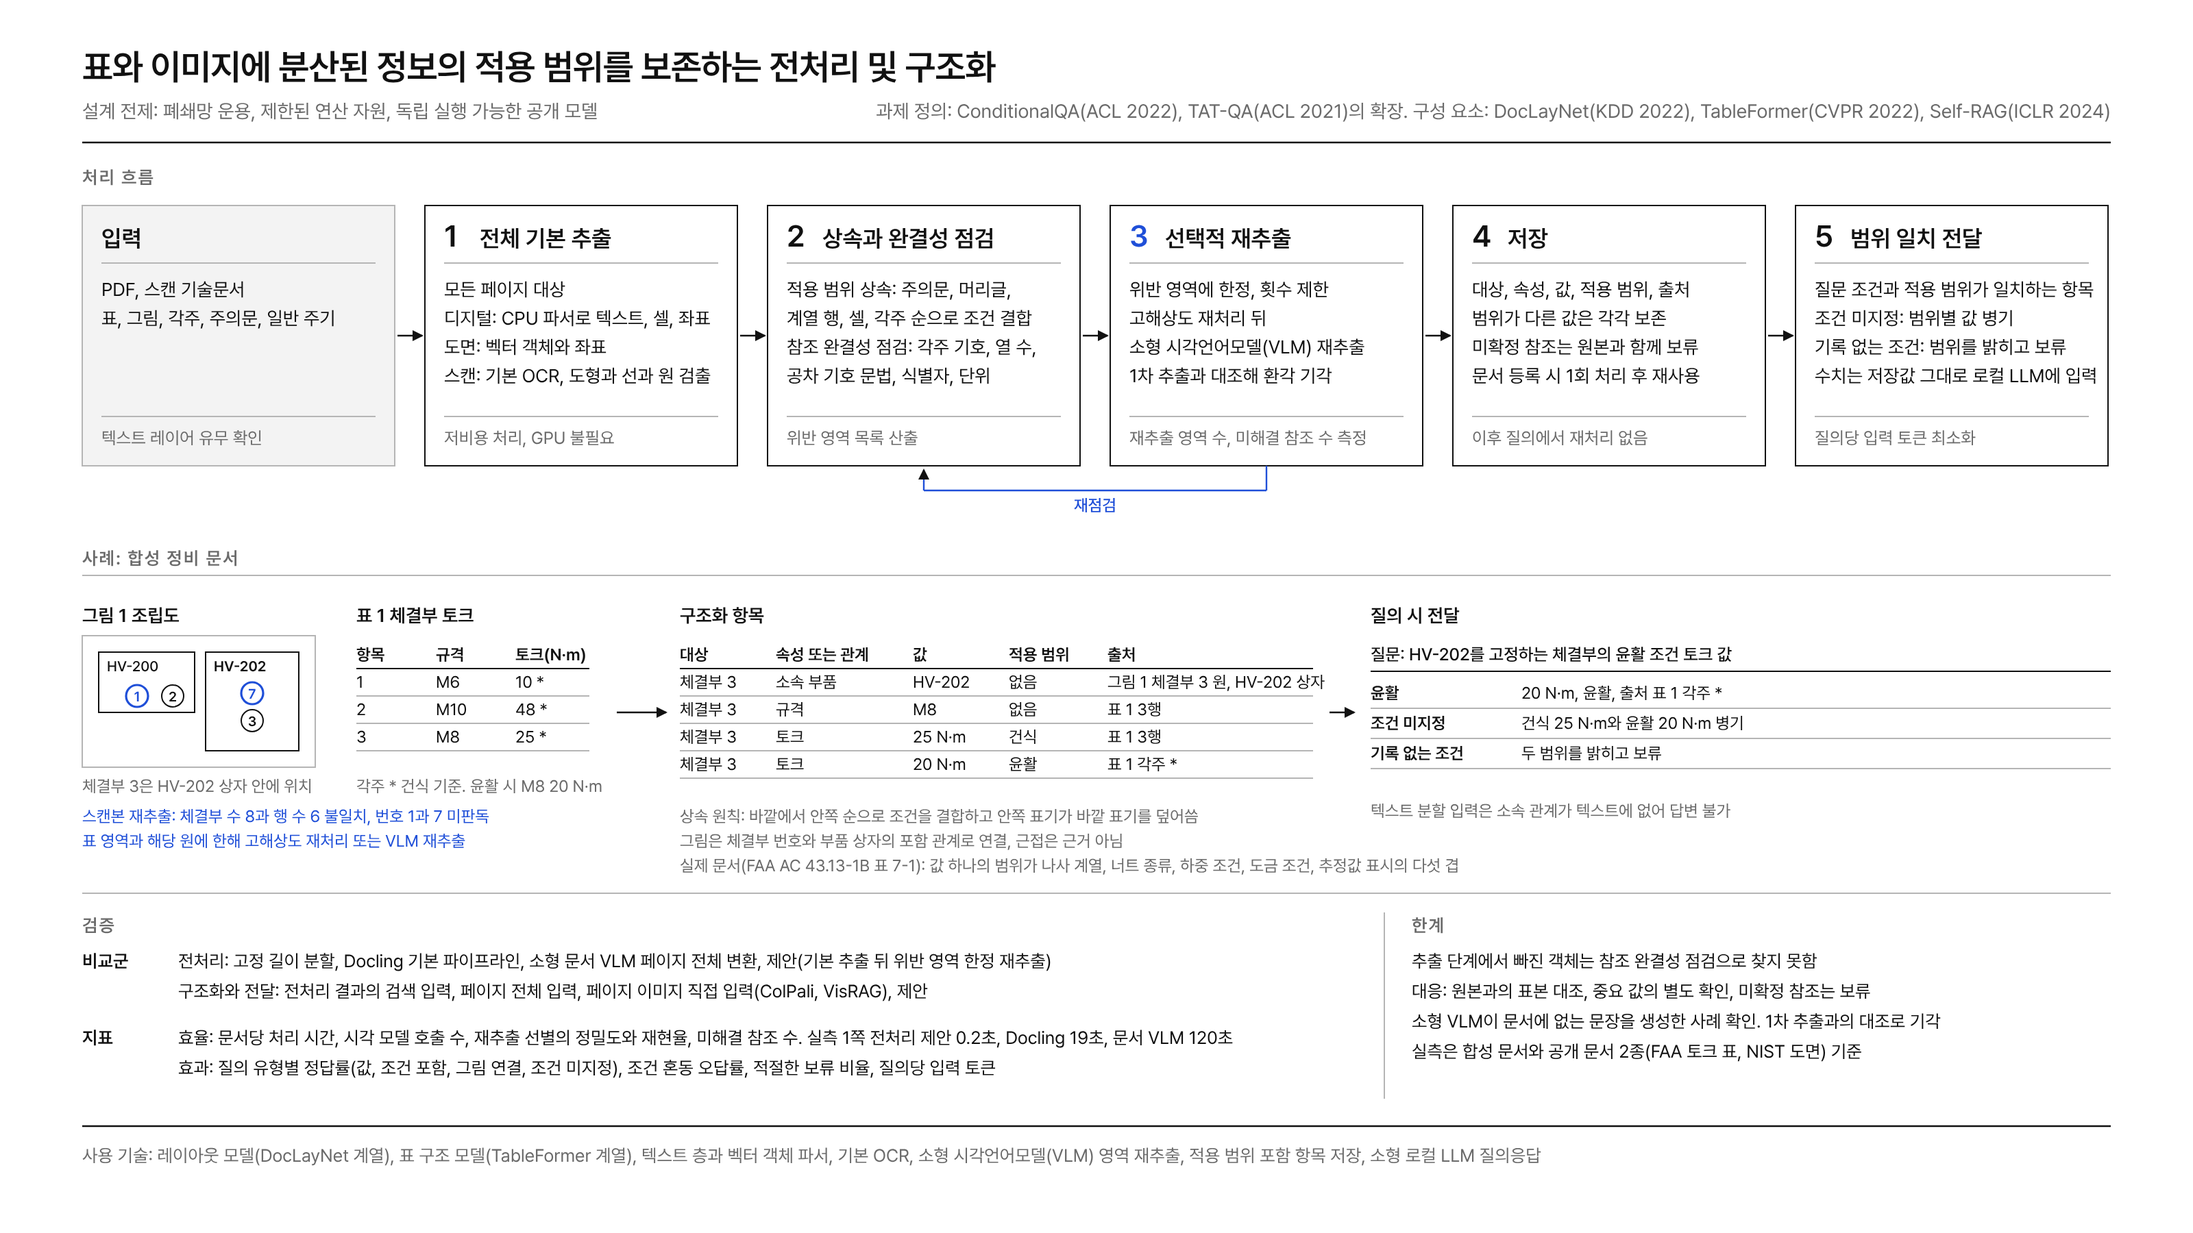
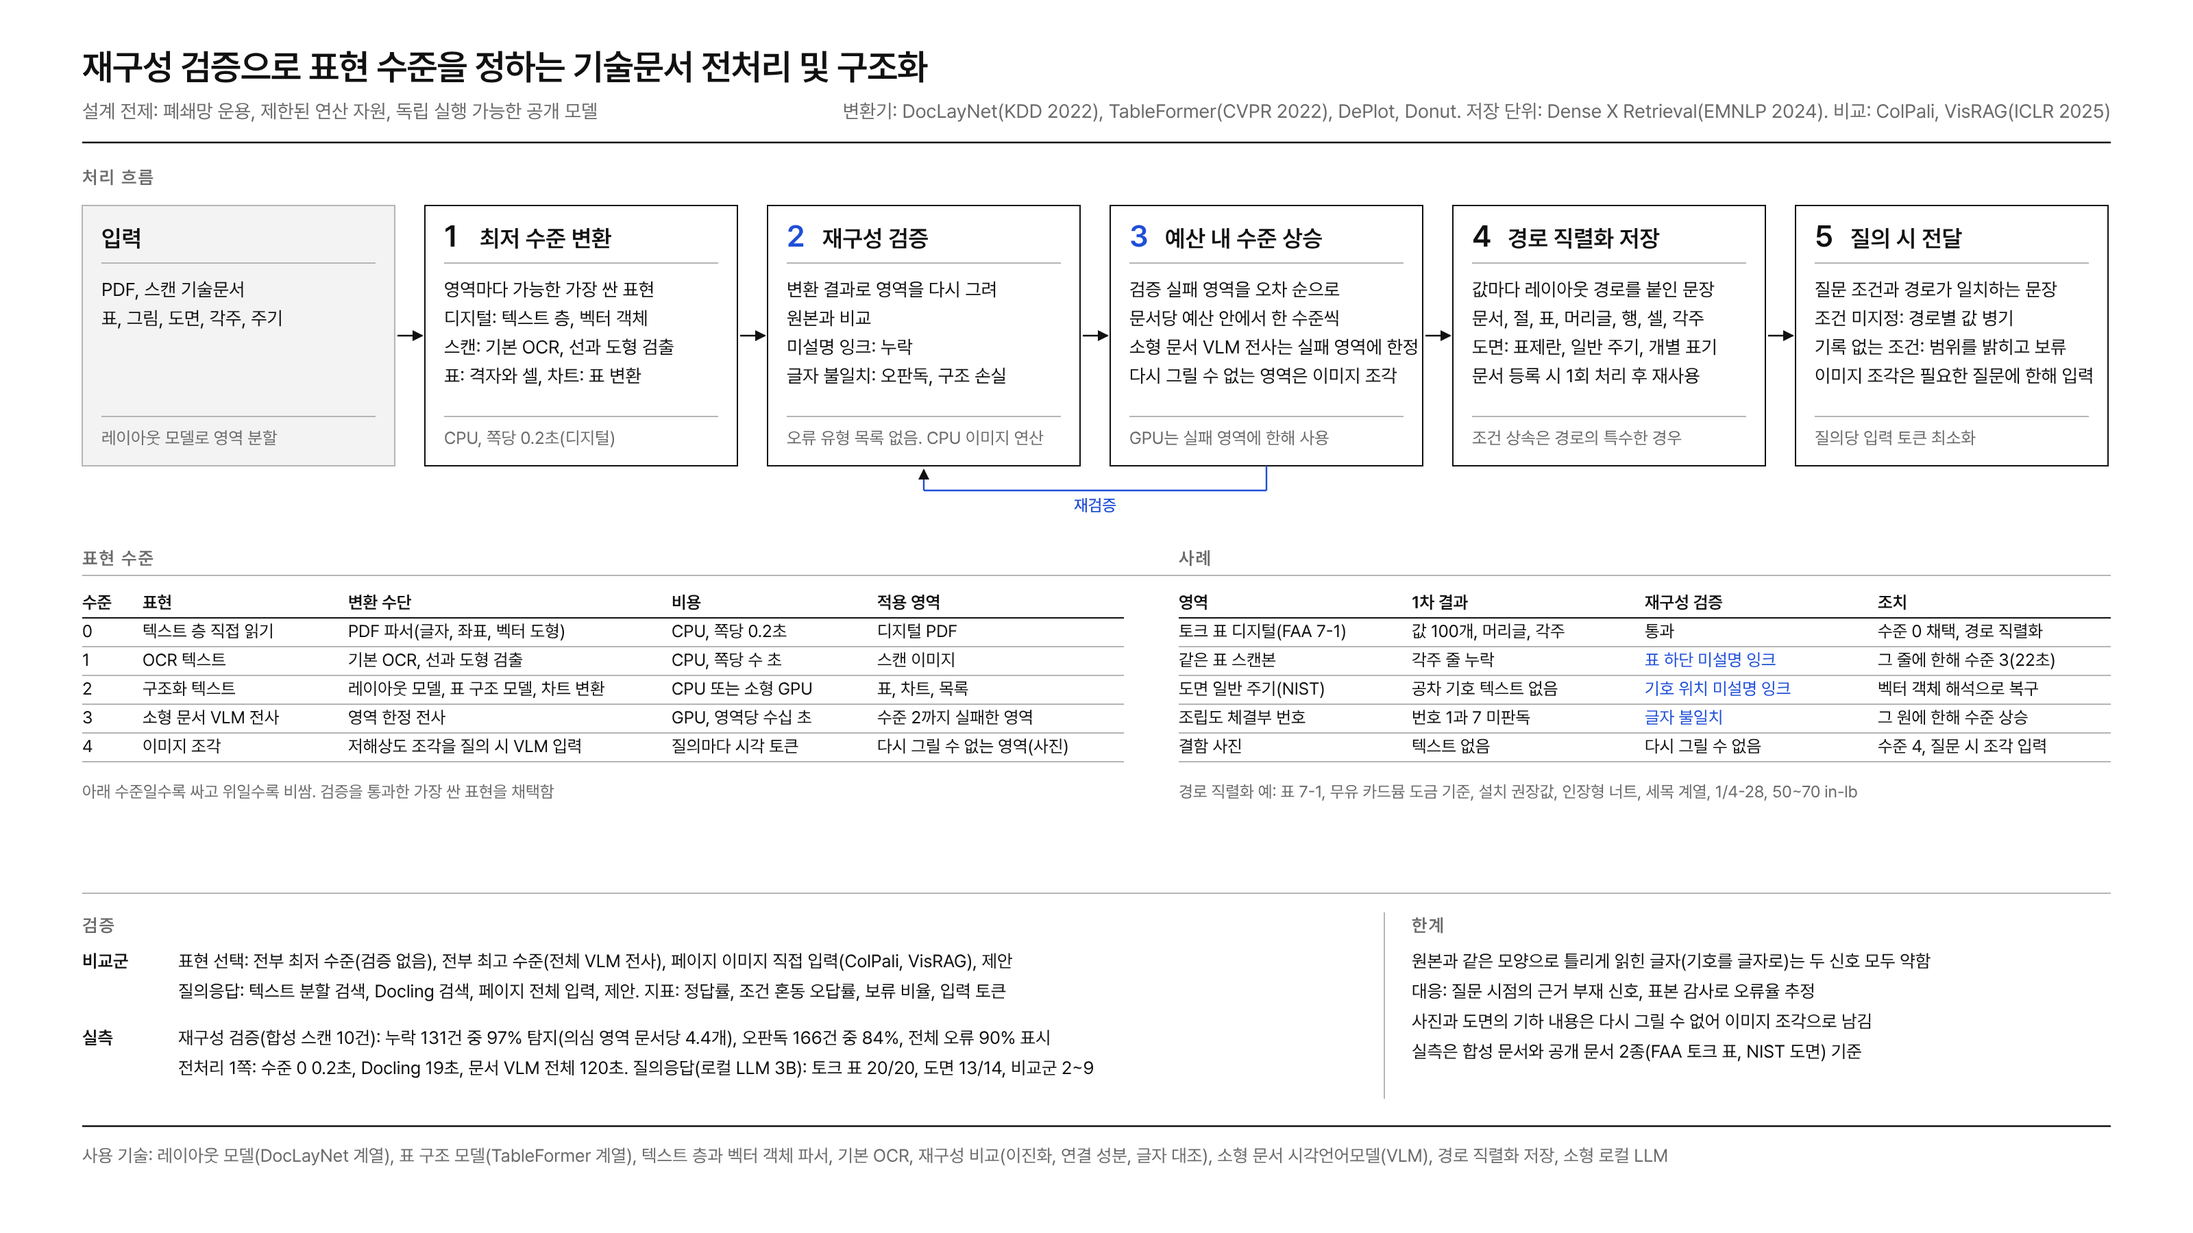
구상안 전체 그림을 v12 구조로 갱신(표현 수준, 재구성 검증, 예산 내 상승, 경로 직렬화, 실측)

diff --git a/docs/figures/make_fig.py b/docs/figures/make_fig.py
@@ -1,9 +1,9 @@
 #!/usr/bin/env python3
-"""구상안 전체 그림(가로형 1600x900) SVG 생성."""
+"""구상안 전체 그림(가로형 1600x900) SVG 생성. v12 재구성 검증 기반 적응 표현."""
 import html, sys
 
 W, H = 1600, 900
-ACC = "#1F4FD8"      # 강조색 1개(추가 분석 대상 표시)
+ACC = "#1F4FD8"      # 강조색 1개(재구성 검증과 수준 상승)
 INK = "#111111"; GR = "#6B6B6B"; LINE = "#B5B5B5"; FILL = "#F3F3F3"
 FONT = "Pretendard, 'Noto Sans KR', sans-serif"
 out = []
@@ -22,27 +22,27 @@ def rect(x, y, w, h, stroke=INK, fill="none", sw=1, dash=None):
     out.append(f'<rect x="{x}" y="{y}" width="{w}" height="{h}" stroke="{stroke}" fill="{fill}" stroke-width="{sw}"{d}/>')
 
 # ---------- 제목 ----------
-t(60, 58, "표와 이미지에 분산된 정보의 적용 범위를 보존하는 전처리 및 구조화", 26, 600, ls="-0.5")
+t(60, 58, "재구성 검증으로 표현 수준을 정하는 기술문서 전처리 및 구조화", 26, 600, ls="-0.5")
 t(60, 86, "설계 전제: 폐쇄망 운용, 제한된 연산 자원, 독립 실행 가능한 공개 모델", 14, 400, GR)
-t(1540, 86, "과제 정의: ConditionalQA(ACL 2022), TAT-QA(ACL 2021)의 확장. 구성 요소: DocLayNet(KDD 2022), TableFormer(CVPR 2022), Self-RAG(ICLR 2024)", 14, 400, GR, "end")
+t(1540, 86, "변환기: DocLayNet(KDD 2022), TableFormer(CVPR 2022), DePlot, Donut. 저장 단위: Dense X Retrieval(EMNLP 2024). 비교: ColPali, VisRAG(ICLR 2025)", 14, 400, GR, "end")
 hline(60, 1540, 104, INK, 1.2)
 
 # ---------- 1단: 처리 흐름 ----------
 t(60, 134, "처리 흐름", 13, 600, GR, ls="1")
 cols = [
-    ("입력", "", ["PDF, 스캔 기술문서", "표, 그림, 각주, 주의문, 일반 주기"], ["텍스트 레이어 유무 확인"]),
-    ("1", "전체 기본 추출", ["모든 페이지 대상", "디지털: CPU 파서로 텍스트, 셀, 좌표", "도면: 벡터 객체와 좌표", "스캔: 기본 OCR, 도형과 선과 원 검출"], ["저비용 처리, GPU 불필요"]),
-    ("2", "상속과 완결성 점검", ["적용 범위 상속: 주의문, 머리글,", "계열 행, 셀, 각주 순으로 조건 결합", "참조 완결성 점검: 각주 기호, 열 수,", "공차 기호 문법, 식별자, 단위"], ["위반 영역 목록 산출"]),
-    ("3", "선택적 재추출", ["위반 영역에 한정, 횟수 제한", "고해상도 재처리 뒤", "소형 시각언어모델(VLM) 재추출", "1차 추출과 대조해 환각 기각"], ["재추출 영역 수, 미해결 참조 수 측정"]),
-    ("4", "저장", ["대상, 속성, 값, 적용 범위, 출처", "범위가 다른 값은 각각 보존", "미확정 참조는 원본과 함께 보류", "문서 등록 시 1회 처리 후 재사용"], ["이후 질의에서 재처리 없음"]),
-    ("5", "범위 일치 전달", ["질문 조건과 적용 범위가 일치하는 항목", "조건 미지정: 범위별 값 병기", "기록 없는 조건: 범위를 밝히고 보류", "수치는 저장값 그대로 로컬 LLM에 입력"], ["질의당 입력 토큰 최소화"]),
+    ("입력", "", ["PDF, 스캔 기술문서", "표, 그림, 도면, 각주, 주기"], ["레이아웃 모델로 영역 분할"]),
+    ("1", "최저 수준 변환", ["영역마다 가능한 가장 싼 표현", "디지털: 텍스트 층, 벡터 객체", "스캔: 기본 OCR, 선과 도형 검출", "표: 격자와 셀, 차트: 표 변환"], ["CPU, 쪽당 0.2초(디지털)"]),
+    ("2", "재구성 검증", ["변환 결과로 영역을 다시 그려", "원본과 비교", "미설명 잉크: 누락", "글자 불일치: 오판독, 구조 손실"], ["오류 유형 목록 없음. CPU 이미지 연산"]),
+    ("3", "예산 내 수준 상승", ["검증 실패 영역을 오차 순으로", "문서당 예산 안에서 한 수준씩", "소형 문서 VLM 전사는 실패 영역에 한정", "다시 그릴 수 없는 영역은 이미지 조각"], ["GPU는 실패 영역에 한해 사용"]),
+    ("4", "경로 직렬화 저장", ["값마다 레이아웃 경로를 붙인 문장", "문서, 절, 표, 머리글, 행, 셀, 각주", "도면: 표제란, 일반 주기, 개별 표기", "문서 등록 시 1회 처리 후 재사용"], ["조건 상속은 경로의 특수한 경우"]),
+    ("5", "질의 시 전달", ["질문 조건과 경로가 일치하는 문장", "조건 미지정: 경로별 값 병기", "기록 없는 조건: 범위를 밝히고 보류", "이미지 조각은 필요한 질문에 한해 입력"], ["질의당 입력 토큰 최소화"]),
 ]
 x0, y0, cw, ch, gap = 60, 150, 228, 190, 22
 for i, (num, name, body, foot) in enumerate(cols):
     x = x0 + i * (cw + gap)
     rect(x, y0, cw, ch, stroke=LINE if i == 0 else INK, fill=FILL if i == 0 else "none")
     if name:
-        t(x + 14, y0 + 30, num, 22, 700, ACC if num == "3" else INK)
+        t(x + 14, y0 + 30, num, 22, 700, ACC if num in ("2", "3") else INK)
         t(x + 40, y0 + 30, name, 17, 600)
     else:
         t(x + 14, y0 + 30, num, 17, 600)
@@ -52,85 +52,63 @@ for i, (num, name, body, foot) in enumerate(cols):
     lines(x + 14, y0 + ch - 16, foot, 12.5, 18, GR)
     if i < len(cols) - 1:
         arrow(x + cw + 2, y0 + ch / 2, x + cw + gap - 2, y0 + ch / 2)
-# 3단계에서 2단계로 되돌아가는 선
+# 3단계에서 2단계로 되돌아가는 선(재검증)
 xa = x0 + 3 * (cw + gap) + cw / 2; xb = x0 + 2 * (cw + gap) + cw / 2; yb = y0 + ch
 vline(xa, yb, yb + 18, ACC, 1.2); hline(xb, xa, yb + 18, ACC, 1.2); arrow(xb, yb + 18, xb, yb + 3, ACC, 1.2)
-t((xa + xb) / 2, yb + 33, "재점검", 12, 500, ACC, "middle")
+t((xa + xb) / 2, yb + 33, "재검증", 12, 500, ACC, "middle")
 
-# ---------- 2단: 사례 ----------
+# ---------- 2단: 표현 수준과 사례 ----------
 Y2 = 400
-t(60, Y2 + 12, "사례: 합성 정비 문서", 13, 600, GR, ls="1")
+t(60, Y2 + 12, "표현 수준", 13, 600, GR, ls="1")
 hline(60, 1540, Y2 + 20, LINE)
-# 원본: 그림
-gx, gy = 60, Y2 + 40
-t(gx, gy + 14, "그림 1 조립도", 13.5, 600)
-rect(gx, gy + 24, 170, 96, LINE)
-rect(gx + 12, gy + 36, 70, 44, INK); t(gx + 18, gy + 50, "HV-200", 10.5, 500)
-rect(gx + 90, gy + 36, 68, 72, INK); t(gx + 96, gy + 50, "HV-202", 10.5, 600)
-for (cx, cy, n, acc) in [(gx + 40, gy + 68, "1", True), (gx + 66, gy + 68, "2", False), (gx + 124, gy + 86, "3", False), (gx + 124, gy + 66, "7", True)]:
-    out.append(f'<circle cx="{cx}" cy="{cy}" r="8" stroke="{ACC if acc else INK}" fill="none" stroke-width="{1.6 if acc else 1}"/>')
-    t(cx, cy + 4, n, 10, 600, ACC if acc else INK, "middle")
-t(gx, gy + 138, "체결부 3은 HV-202 상자 안에 위치", 12, 400, GR)
-# 원본: 표
-tx = 260
-t(tx, gy + 14, "표 1 체결부 토크", 13.5, 600)
-rows = [("항목", "규격", "토크(N·m)"), ("1", "M6", "10 *"), ("2", "M10", "48 *"), ("3", "M8", "25 *")]
-for r, row in enumerate(rows):
-    yy = gy + 42 + r * 20
+lx = 60; ly = Y2 + 44
+hdr = ("수준", "표현", "변환 수단", "비용", "적용 영역")
+widths = (44, 150, 236, 150, 180)
+rows = [("0", "텍스트 층 직접 읽기", "PDF 파서(글자, 좌표, 벡터 도형)", "CPU, 쪽당 0.2초", "디지털 PDF"),
+        ("1", "OCR 텍스트", "기본 OCR, 선과 도형 검출", "CPU, 쪽당 수 초", "스캔 이미지"),
+        ("2", "구조화 텍스트", "레이아웃 모델, 표 구조 모델, 차트 변환", "CPU 또는 소형 GPU", "표, 차트, 목록"),
+        ("3", "소형 문서 VLM 전사", "영역 한정 전사", "GPU, 영역당 수십 초", "수준 2까지 실패한 영역"),
+        ("4", "이미지 조각", "저해상도 조각을 질의 시 VLM 입력", "질의마다 시각 토큰", "다시 그릴 수 없는 영역(사진)")]
+for r, row in enumerate([hdr] + rows):
+    yy = ly + r * 21; xx = lx
     for c, cell in enumerate(row):
-        t(tx + c * 58, yy, cell, 12, 600 if r == 0 else 400)
-    hline(tx, tx + 170, yy + 6, LINE if r else INK)
-t(tx, gy + 138, "각주  * 건식 기준. 윤활 시 M8 20 N·m", 12, 400, GR)
-# 화살표 원본 -> 항목
-arrow(450, gy + 80, 486, gy + 80)
-# 구조화 항목 표
-ix = 496
-t(ix, gy + 14, "구조화 항목", 13.5, 600)
-hdr = ("대상", "속성 또는 관계", "값", "적용 범위", "출처")
-widths = (70, 100, 70, 72, 150)
-recs = [("체결부 3", "소속 부품", "HV-202", "없음", "그림 1 체결부 3 원, HV-202 상자"),
-        ("체결부 3", "규격", "M8", "없음", "표 1 3행"),
-        ("체결부 3", "토크", "25 N·m", "건식", "표 1 3행"),
-        ("체결부 3", "토크", "20 N·m", "윤활", "표 1 각주 *")]
-for r, row in enumerate([hdr] + recs):
-    yy = gy + 42 + r * 20; xx = ix
+        t(xx, yy, cell, 12.5, 600 if r == 0 else 400); xx += widths[c]
+    hline(lx, lx + sum(widths), yy + 7, LINE if r else INK)
+t(lx, ly + 6 * 21 + 12, "아래 수준일수록 싸고 위일수록 비쌈. 검증을 통과한 가장 싼 표현을 채택함", 12, 400, GR)
+
+# 사례
+ex = 860
+t(ex, Y2 + 12, "사례", 13, 600, GR, ls="1")
+hdr2 = ("영역", "1차 결과", "재구성 검증", "조치")
+w2 = (170, 170, 170, 170)
+rows2 = [("토크 표 디지털(FAA 7-1)", "값 100개, 머리글, 각주", "통과", "수준 0 채택, 경로 직렬화"),
+         ("같은 표 스캔본", "각주 줄 누락", "표 하단 미설명 잉크", "그 줄에 한해 수준 3(22초)"),
+         ("도면 일반 주기(NIST)", "공차 기호 텍스트 없음", "기호 위치 미설명 잉크", "벡터 객체 해석으로 복구"),
+         ("조립도 체결부 번호", "번호 1과 7 미판독", "글자 불일치", "그 원에 한해 수준 상승"),
+         ("결함 사진", "텍스트 없음", "다시 그릴 수 없음", "수준 4, 질문 시 조각 입력")]
+for r, row in enumerate([hdr2] + rows2):
+    yy = ly + r * 21; xx = ex
     for c, cell in enumerate(row):
-        t(xx, yy, cell, 12, 600 if r == 0 else 400); xx += widths[c]
-    hline(ix, ix + sum(widths), yy + 6, LINE if r else INK)
-t(60, gy + 160, "스캔본 재추출: 체결부 수 8과 행 수 6 불일치, 번호 1과 7 미판독", 12, 400, ACC)
-t(60, gy + 178, "표 영역과 해당 원에 한해 고해상도 재처리 또는 VLM 재추출", 12, 400, ACC)
-lines(ix, gy + 160, ["상속 원칙: 바깥에서 안쪽 순으로 조건을 결합하고 안쪽 표기가 바깥 표기를 덮어씀",
-                     "그림은 체결부 번호와 부품 상자의 포함 관계로 연결, 근접은 근거 아님",
-                     "실제 문서(FAA AC 43.13-1B 표 7-1): 값 하나의 범위가 나사 계열, 너트 종류, 하중 조건, 도금 조건, 추정값 표시의 다섯 겹"], 12, 18, GR)
-# 화살표 항목 -> 질의
-qx = 1000
-arrow(ix + sum(widths) + 12, gy + 80, qx - 12, gy + 80)
-t(qx, gy + 14, "질의 시 전달", 13.5, 600)
-t(qx, gy + 42, "질문: HV-202를 고정하는 체결부의 윤활 조건 토크 값", 12.5, 500)
-hline(qx, 1540, gy + 50, INK)
-q = [("윤활", "20 N·m, 윤활, 출처 표 1 각주 *"), ("조건 미지정", "건식 25 N·m와 윤활 20 N·m 병기"), ("기록 없는 조건", "두 범위를 밝히고 보류")]
-for r, (a, b) in enumerate(q):
-    yy = gy + 70 + r * 22
-    t(qx, yy, a, 12, 600); t(qx + 110, yy, b, 12)
-    hline(qx, 1540, yy + 7, LINE)
-t(qx, gy + 156, "텍스트 분할 입력은 소속 관계가 텍스트에 없어 답변 불가", 12, 400, GR)
+        t(xx, yy, cell, 12.5, 600 if r == 0 else 400, ACC if (r and c == 2 and cell != "통과" and cell != "다시 그릴 수 없음") else INK); xx += w2[c]
+    hline(ex, ex + sum(w2), yy + 7, LINE if r else INK)
+t(ex, ly + 6 * 21 + 12, "경로 직렬화 예: 표 7-1, 무유 카드뮴 도금 기준, 설치 권장값, 인장형 너트, 세목 계열, 1/4-28, 50~70 in-lb", 12, 400, GR)
 
 # ---------- 3단: 검증과 한계 ----------
 Y3 = 652
 hline(60, 1540, Y3, LINE)
 t(60, Y3 + 28, "검증", 13, 600, GR, ls="1")
-t(60, Y3 + 54, "비교군", 13, 600); lines(130, Y3 + 54, ["전처리: 고정 길이 분할, Docling 기본 파이프라인, 소형 문서 VLM 페이지 전체 변환, 제안(기본 추출 뒤 위반 영역 한정 재추출)",
-                                                "구조화와 전달: 전처리 결과의 검색 입력, 페이지 전체 입력, 페이지 이미지 직접 입력(ColPali, VisRAG), 제안"], 13, 22)
-t(60, Y3 + 110, "지표", 13, 600); lines(130, Y3 + 110, ["효율: 문서당 처리 시간, 시각 모델 호출 수, 재추출 선별의 정밀도와 재현율, 미해결 참조 수. 실측 1쪽 전처리 제안 0.2초, Docling 19초, 문서 VLM 120초",
-                                                 "효과: 질의 유형별 정답률(값, 조건 포함, 그림 연결, 조건 미지정), 조건 혼동 오답률, 적절한 보류 비율, 질의당 입력 토큰"], 13, 22)
+t(60, Y3 + 54, "비교군", 13, 600); lines(130, Y3 + 54, ["표현 선택: 전부 최저 수준(검증 없음), 전부 최고 수준(전체 VLM 전사), 페이지 이미지 직접 입력(ColPali, VisRAG), 제안",
+                                                "질의응답: 텍스트 분할 검색, Docling 검색, 페이지 전체 입력, 제안. 지표: 정답률, 조건 혼동 오답률, 보류 비율, 입력 토큰"], 13, 22)
+t(60, Y3 + 110, "실측", 13, 600); lines(130, Y3 + 110, ["재구성 검증(합성 스캔 10건): 누락 131건 중 97% 탐지(의심 영역 문서당 4.4개), 오판독 166건 중 84%, 전체 오류 90% 표시",
+                                                 "전처리 1쪽: 수준 0 0.2초, Docling 19초, 문서 VLM 전체 120초. 질의응답(로컬 LLM 3B): 토크 표 20/20, 도면 13/14, 비교군 2~9"], 13, 22)
 vline(1010, Y3 + 14, Y3 + 150, LINE)
 t(1030, Y3 + 28, "한계", 13, 600, GR, ls="1")
-lines(1030, Y3 + 54, ["추출 단계에서 빠진 객체는 참조 완결성 점검으로 찾지 못함",
-                      "대응: 원본과의 표본 대조, 중요 값의 별도 확인, 미확정 참조는 보류",
-                      "소형 VLM이 문서에 없는 문장을 생성한 사례 확인. 1차 추출과의 대조로 기각",
+lines(1030, Y3 + 54, ["원본과 같은 모양으로 틀리게 읽힌 글자(기호를 글자로)는 두 신호 모두 약함",
+                      "대응: 질문 시점의 근거 부재 신호, 표본 감사로 오류율 추정",
+                      "사진과 도면의 기하 내용은 다시 그릴 수 없어 이미지 조각으로 남김",
                       "실측은 합성 문서와 공개 문서 2종(FAA 토크 표, NIST 도면) 기준"], 13, 22)
 hline(60, 1540, Y3 + 170, INK, 1.2)
-t(60, Y3 + 196, "사용 기술: 레이아웃 모델(DocLayNet 계열), 표 구조 모델(TableFormer 계열), 텍스트 층과 벡터 객체 파서, 기본 OCR, 소형 시각언어모델(VLM) 영역 재추출, 적용 범위 포함 항목 저장, 소형 로컬 LLM 질의응답", 13, 400, GR)
+t(60, Y3 + 196, "사용 기술: 레이아웃 모델(DocLayNet 계열), 표 구조 모델(TableFormer 계열), 텍스트 층과 벡터 객체 파서, 기본 OCR, 재구성 비교(이진화, 연결 성분, 글자 대조), 소형 문서 시각언어모델(VLM), 경로 직렬화 저장, 소형 로컬 LLM", 13, 400, GR)
 
 svg = f'''<svg xmlns="http://www.w3.org/2000/svg" width="{W}" height="{H}" viewBox="0 0 {W} {H}" font-family="{FONT}">
 <defs><marker id="ah" markerWidth="8" markerHeight="8" refX="7" refY="4" orient="auto" markerUnits="userSpaceOnUse"><path d="M0,0 L8,4 L0,8 z" fill="{INK}"/></marker></defs>

diff --git a/docs/figures/README.md b/docs/figures/README.md
@@ -4,7 +4,7 @@
 
 | 파일 | 구성 | 생성 |
 |---|---|---|
-| `구상안-전체-그림.svg`, `.png` | 흑백 선 구성(v11 용어). 처리 흐름 6단과 재점검, 체결 토크 사례와 상속 원칙, 비교군과 지표, 한계, 근거 논문 | `python3 make_fig.py 구상안-전체-그림.svg` 뒤 브라우저 렌더 |
+| `구상안-전체-그림.svg`, `.png` | 흑백 선 구성(v12). 처리 흐름 6단과 재검증, 표현 수준 표, 사례, 비교군과 실측, 한계, 근거 논문 | `python3 make_fig.py 구상안-전체-그림.svg` 뒤 브라우저 렌더 |
 | `구상안-전체-구조.png` | 입력, 전처리, 구조화, 질의 시 활용의 4구역 구성. 연결 원칙과 질문 조건별 결과 | `python3 draw_overview.py` |
 
 글꼴은 Pretendard. 1600×900(16:9) 가로형.

diff --git a/README.md b/README.md
@@ -11,7 +11,7 @@
 - 표현 수준: 텍스트 층, OCR, 구조화 텍스트, 소형 문서 VLM 전사, 이미지 조각
 - 구조화: 값마다 레이아웃 경로를 붙인 문장(Dense X Retrieval, EMNLP 2024의 확장). 변환기는 DocLayNet(KDD 2022), TableFormer(CVPR 2022), DePlot, Donut
 - 검증: 공개 원본(FAA AC 43.13-1B, NIST 시험 도면)과 합성 문서. [PoC 목록](poc/README.md)
-- 전체 그림: [docs/figures](docs/figures/README.md) (v11 기준, 갱신 예정)
+- 전체 그림: [docs/figures](docs/figures/README.md)
 
 ## 읽는 순서
 
